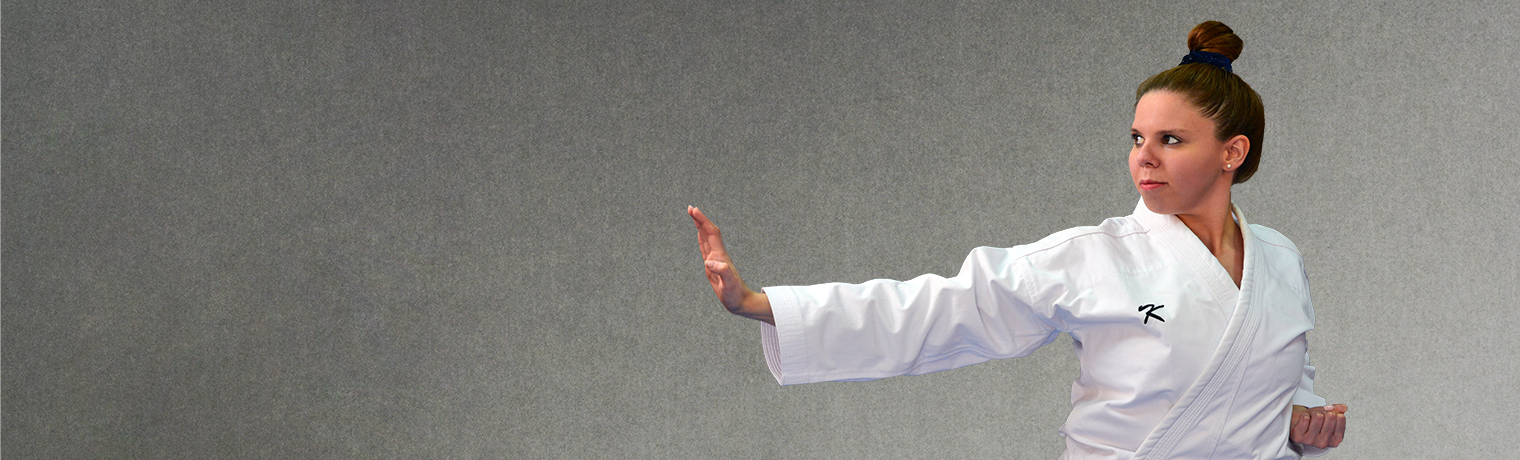
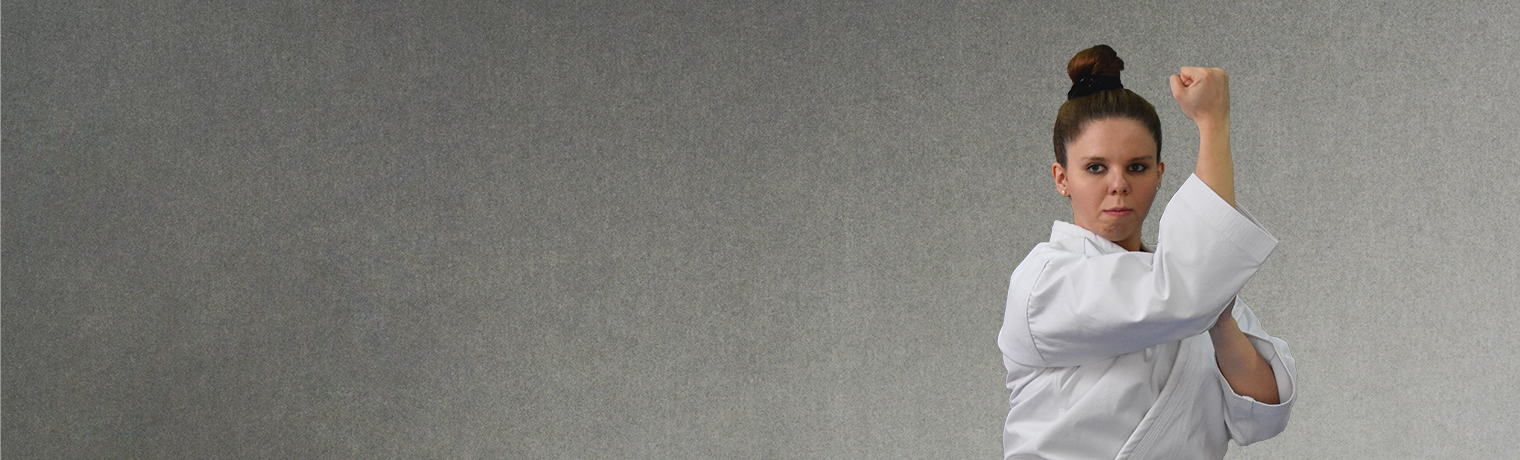
clean up uselsess images

Changed region(s): [[0.4329, 0.0304, 0.8967, 1.0]]

diff --git a/sensei_details/sensei_det.css b/sensei_details/sensei_det.css
@@ -275,7 +275,7 @@ h4 {
 }
 .hero.sensei.ady {
   background-position: 70% center;
-  background-image: url("../images/hero_ady_2.jpg");
+  background-image: url("../images/hero_ady.jpg");
 }
 .hero.sensei.ivo {
   background-position: 70% center;
@@ -329,7 +329,7 @@ h4 {
     background-position: 80% center;
   }
   .hero.sensei.marti {
-    background-position: 82% center;
+    background-position: 80% center;
   }
   .hero.sensei.svetlio {
     background-position: 75% center;
